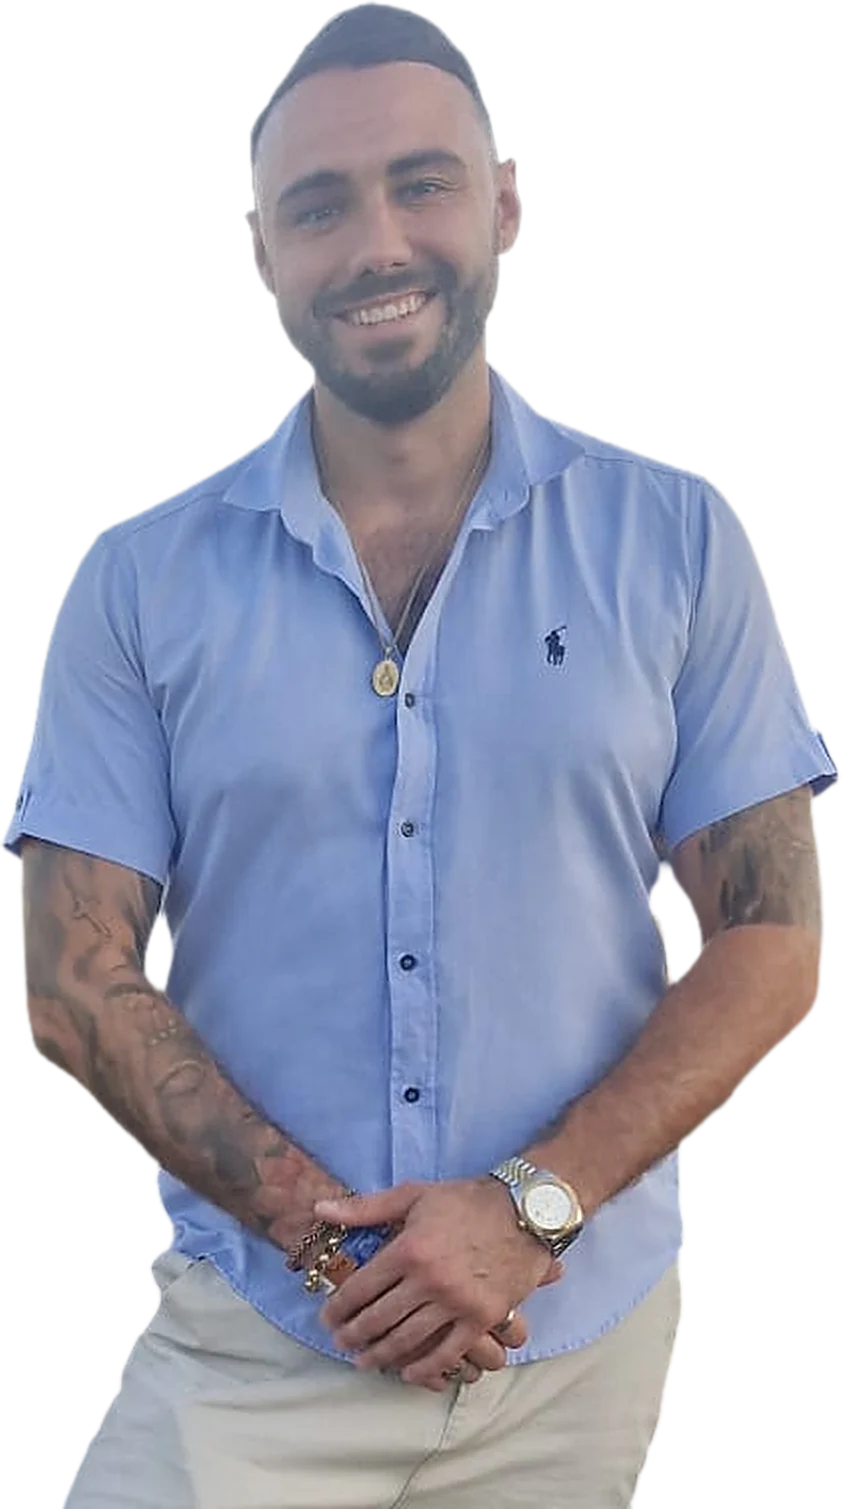
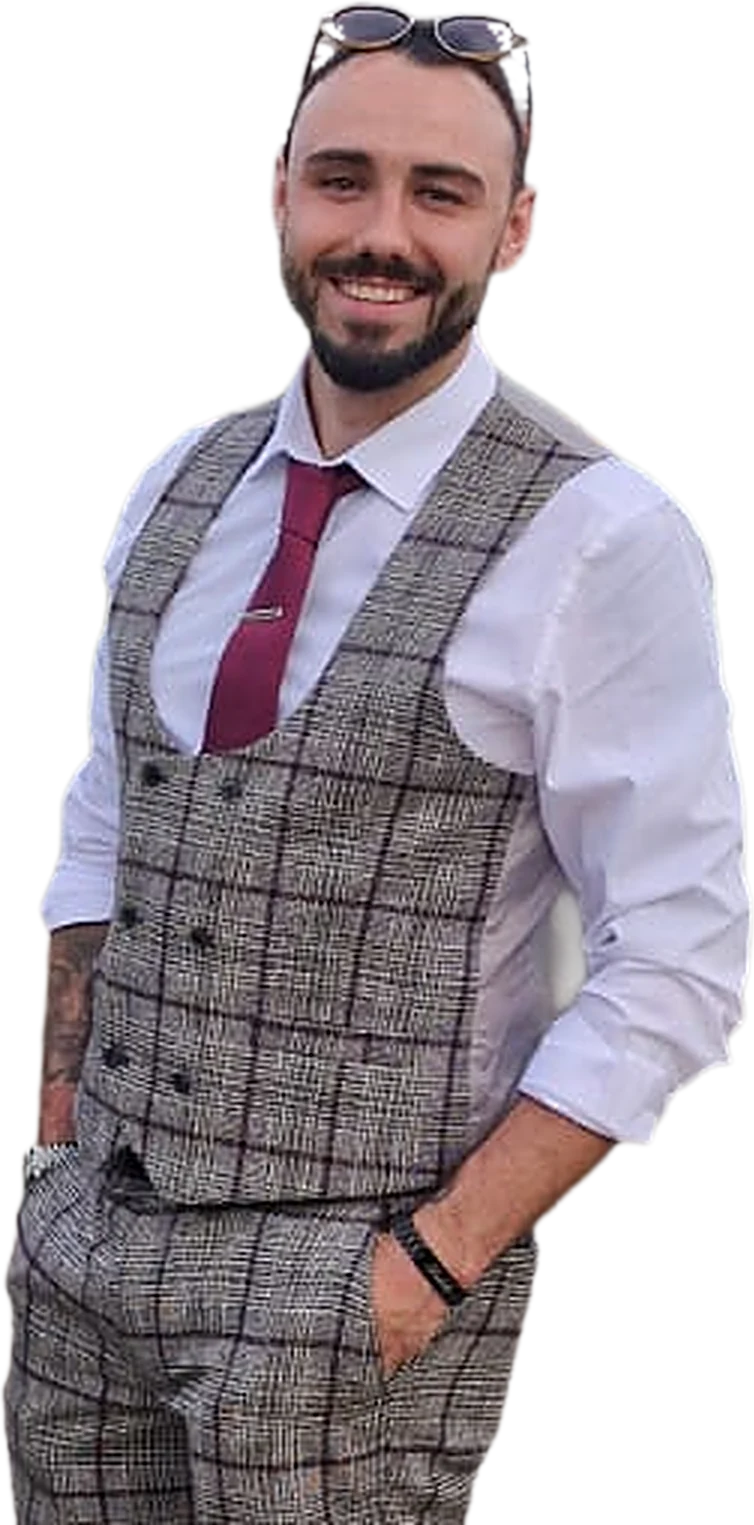
About page: Connor's portrait swapped to the suit photo

diff --git a/content/media.ts b/content/media.ts
@@ -52,8 +52,8 @@ export const media = {
     alt: "Restored bay window, freshly painted white, by CM MainWorks",
     label: "Reviews background",
   },
-  // Cut out from a photo John supplied (15 Nov 2026): Connor only, waist up, his own pixels enlarged 2x (no AI redraw of his face).
-  portrait: { src: "/images/connor.webp", w: 842, h: 1509, alt: "Connor, who runs CM MainWorks, smiling in a light blue shirt", label: "Photo of Connor" },
+  // Cut out from a photo John supplied (15 Nov 2026, the suit photo): Connor only, waist up, his own pixels enlarged 3x (no AI redraw of his face).
+  portrait: { src: "/images/connor.webp", w: 754, h: 1525, alt: "Connor, who runs CM MainWorks, smiling in a checked waistcoat and tie", label: "Photo of Connor" },
 } satisfies Record<string, Media>;
 
 /*
